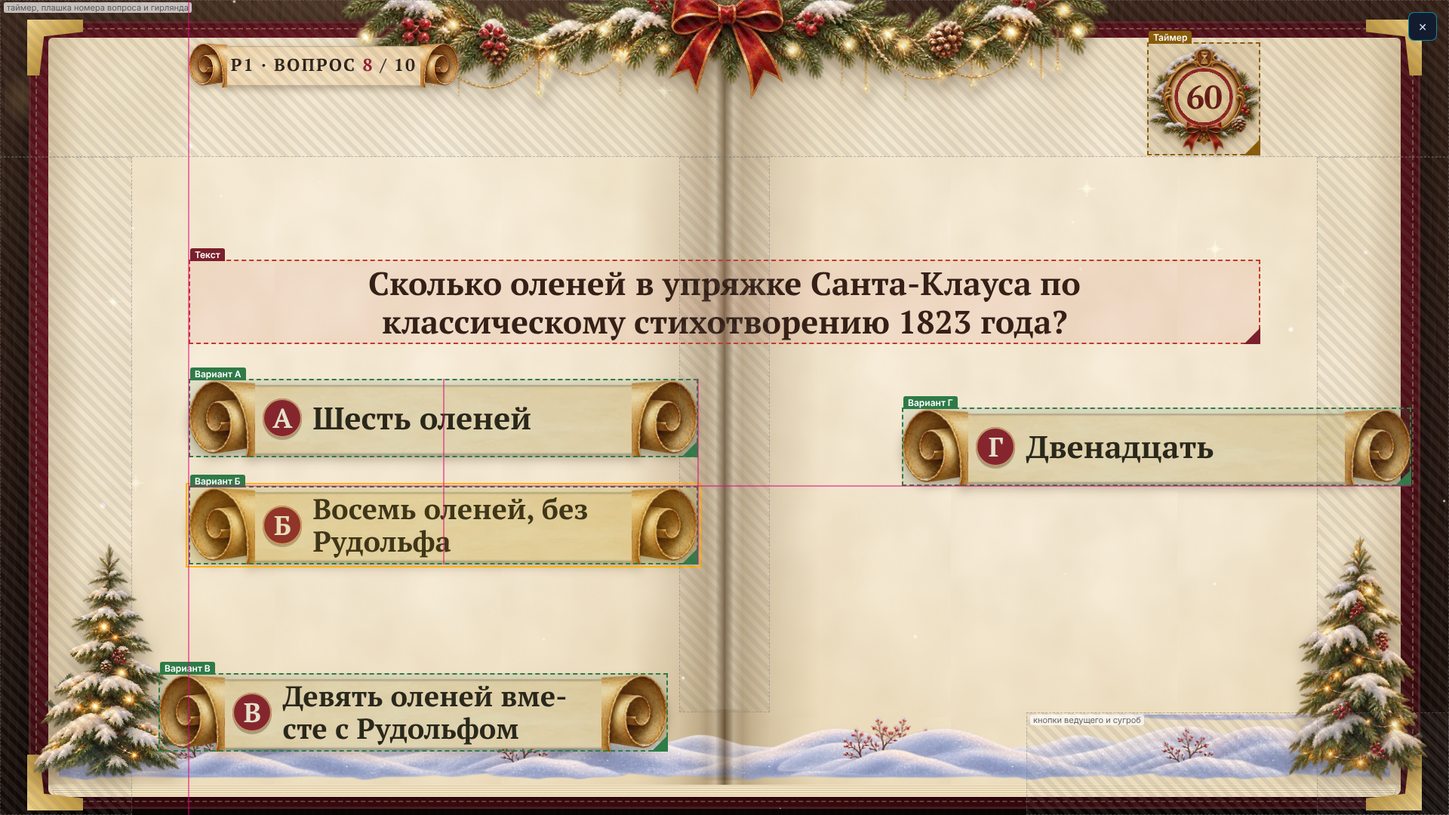
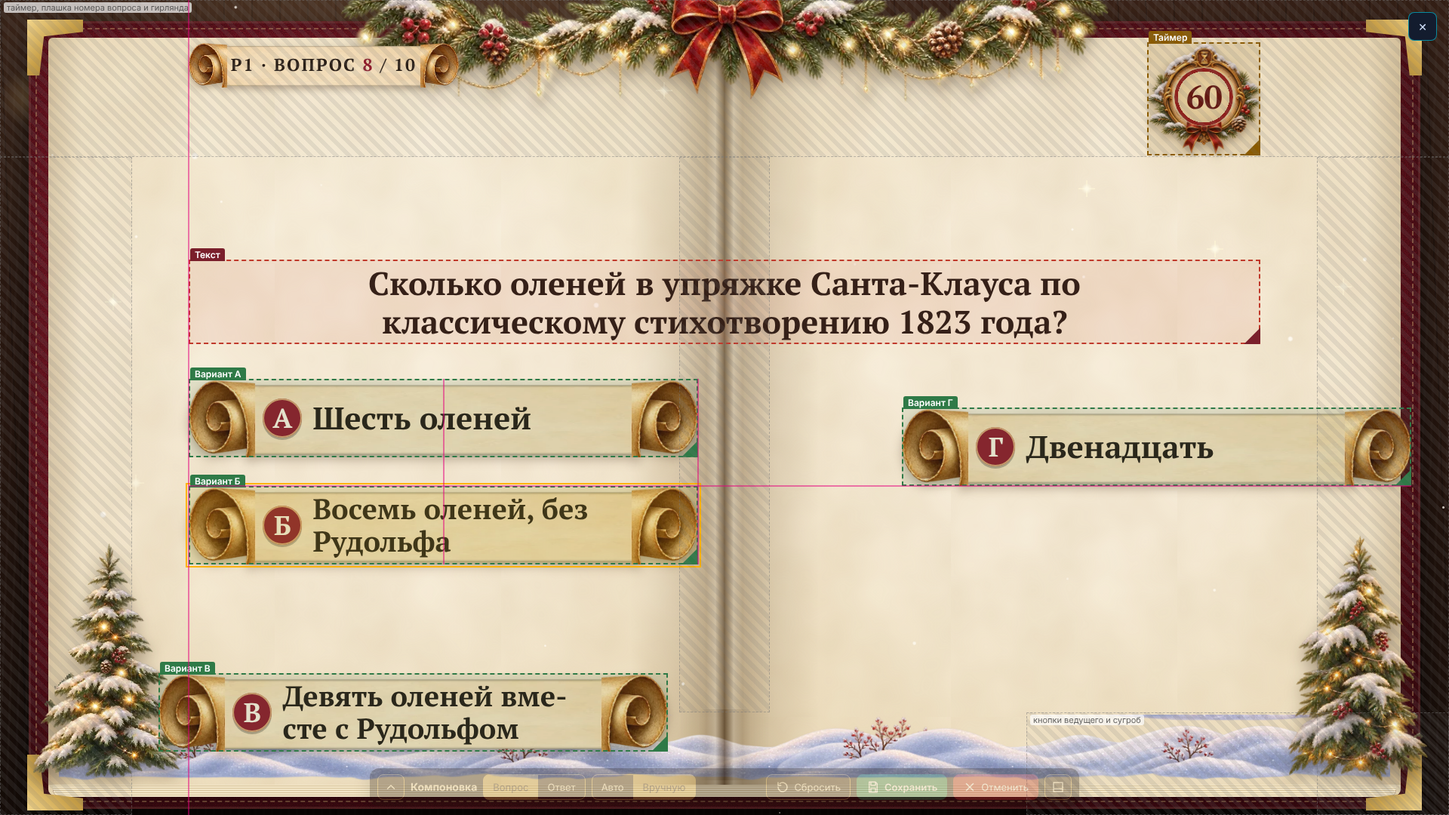
Панель редактора компоновки: сворачиваемая, иконки, зелёное/красное, группы, подсказки; кадры

Changed region(s): [[0.25, 0.9167, 0.75, 1.0]]

diff --git a/src/pages/editor/LayoutEditor.tsx b/src/pages/editor/LayoutEditor.tsx
@@ -3,6 +3,7 @@
 // Черновик живёт в QuestionPreview и подставляется в q.service.layout — экран перерисовывается теми же компонентами, что и на проекторе.
 import { useEffect, useRef, useState } from 'react'
 import { Hint, useHint } from '../../components/Hint'
+import { Ic } from './layoutIcons'
 import { pctStyle } from '../../components/ManualLayout'
 import { sceneAreaCss, busyZones, themeHasFold } from '../../lib/layoutArea'
 import { alignRects, bbox, distribute, nudge, pageLines, sameSize, snapMove, snapResize, SNAP_PX, type AlignMode, type GapMark, type GuideLine, type SnapCfg } from '../../lib/layoutSnap'
@@ -74,6 +75,12 @@ const keyOf = (t: Target): string => (t.kind === 'img' || t.kind === 'tile' ? `$
 type Box = { key: string; t: Target; r: Rect; label: string }
 /** Что рисуем поверх экрана во время жеста: направляющие, отрезки равных интервалов, метки «те же размеры». */
 interface Guides { lines: GuideLine[]; gaps: GapMark[]; eqs: { r: Rect; txt: string }[] }
+/** Состояние панели (свёрнута/развёрнута, сверху/снизу) помним между открытиями; localStorage может быть недоступен — тогда по умолчанию. */
+const PREFS_KEY = 'qp-lay-panel'
+interface PanelPrefs { open: boolean; dock: 'top' | 'bottom' }
+const readPrefs = (): PanelPrefs => {
+  try { const j = JSON.parse(localStorage.getItem(PREFS_KEY) || '{}'); return { open: j.open === true, dock: j.dock === 'top' ? 'top' : 'bottom' } } catch { return { open: false, dock: 'bottom' } }
+}
 type Drag = { kind: 'move' | 'resize' | 'marquee'; keys: string[]; starts: Record<string, Rect>; sx: number; sy: number; base: string[] }
 
 export function LayoutEditor({ theme, screen, onScreen, mode, onMode, draft, onDraft, dirty, status, saving, onSave, onCancel, onReset, tileKeys = [], hasTimer = false }: {
@@ -96,6 +103,10 @@ export function LayoutEditor({ theme, screen, onScreen, mode, onMode, draft, onD
   const [sel, setSel] = useState<string[]>([])
   const [guides, setGuides] = useState<Guides | null>(null)
   const [marq, setMarq] = useState<Rect | null>(null)
+  const [prefs, setPrefsState] = useState<PanelPrefs>(readPrefs)
+  const [gest, setGest] = useState(false)   // идёт жест: панель не мешает рамкам (полупрозрачная, не ловит указатель)
+  const pOpen = prefs.open, dock = prefs.dock
+  const setPrefs = (p: Partial<PanelPrefs>) => setPrefsState(old => { const n = { ...old, ...p }; try { localStorage.setItem(PREFS_KEY, JSON.stringify(n)) } catch { /* без памяти — работаем дальше */ } return n })
 
   const boxes: Box[] = []
   const addBox = (t: Target, r: Rect, label: string) => boxes.push({ key: keyOf(t), t, r, label })
@@ -137,7 +148,7 @@ export function LayoutEditor({ theme, screen, onScreen, mode, onMode, draft, onD
     ;(e.currentTarget as HTMLElement).setPointerCapture(e.pointerId)
     const starts: Record<string, Rect> = {}
     for (const k of keys) { const b = boxes.find(x => x.key === k); if (b) starts[k] = b.r }
-    drag.current = { kind, keys, starts, sx: e.clientX, sy: e.clientY, base: [] }
+    drag.current = { kind, keys, starts, sx: e.clientX, sy: e.clientY, base: [] }; setGest(true)
   }
   /** Рамка-выделение: тянем по пустому месту экрана. */
   const downBg = (e: React.PointerEvent) => {
@@ -146,7 +157,7 @@ export function LayoutEditor({ theme, screen, onScreen, mode, onMode, draft, onD
     ;(e.currentTarget as HTMLElement).setPointerCapture(e.pointerId)
     const base = e.shiftKey || e.ctrlKey || e.metaKey ? selKeys : []
     if (!base.length) setSel([])
-    drag.current = { kind: 'marquee', keys: [], starts: {}, sx: e.clientX, sy: e.clientY, base }
+    drag.current = { kind: 'marquee', keys: [], starts: {}, sx: e.clientX, sy: e.clientY, base }; setGest(true)
   }
   const move = (e: React.PointerEvent) => {
     const d = drag.current; if (!d || !draft) return
@@ -185,7 +196,7 @@ export function LayoutEditor({ theme, screen, onScreen, mode, onMode, draft, onD
     }
     setGuides(gd); onDraft(put(draft, t, n))
   }
-  const up = () => { drag.current = null; setGuides(null); setMarq(null) }
+  const up = () => { drag.current = null; setGuides(null); setMarq(null); setGest(false) }
 
   // стрелки двигают выбранные рамки: 0,2 % экрана (≈ 4 px на 1920), с Shift — 1 %
   useEffect(() => {
@@ -235,59 +246,82 @@ export function LayoutEditor({ theme, screen, onScreen, mode, onMode, draft, onD
         {guides?.eqs.map((q, i) => <div key={`e${i}`} className="lay-eq" style={{ left: `${(q.r.x + q.r.w / 2) * 100}%`, top: `${(q.r.y + q.r.h) * 100}%` }}>{q.txt}</div>)}
         {marq && <div className="lay-marq" style={pctStyle(marq)} />}
       </div>
-      <div className="lay-panel" role="toolbar" aria-label="Компоновка">
-        <div className="lay-row">
-          <b>Компоновка</b>
-          <span className="lay-seg">
-            <button type="button" className={screen === 'question' ? 'on' : ''} onClick={() => onScreen('question')}>Вопрос</button>
-            <button type="button" className={screen === 'answer' ? 'on' : ''} onClick={() => onScreen('answer')}>Ответ</button>
+      <div className={`lay-panel ${pOpen ? 'open' : 'min'} dock-${dock}${gest ? ' gesture' : ''}`} role="toolbar" aria-label="Компоновка">
+        <div className="lay-bar">
+          <button type="button" className="lay-ib lay-toggle" aria-expanded={pOpen} title={pOpen ? 'Свернуть панель: останется одна строка' : 'Развернуть панель: выравнивание, режимы, подсказки'} onClick={() => setPrefs({ open: !pOpen })}><Ic n={pOpen ? 'down' : 'up'} /></button>
+          <b className="lay-title">Компоновка</b>
+          <span className="lay-seg" role="group" aria-label="Какой экран правим">
+            <button type="button" className={screen === 'question' ? 'on' : ''} title="Правим экран вопроса" onClick={() => onScreen('question')}>Вопрос</button>
+            <button type="button" className={screen === 'answer' ? 'on' : ''} title="Правим экран ответа" onClick={() => onScreen('answer')}>Ответ</button>
           </span>
-          <span className="lay-seg">
-            <button type="button" className={mode === 'auto' ? 'on' : ''} onClick={() => onMode('auto')}>Авто</button>
-            <button type="button" className={mode === 'manual' ? 'on' : ''} onClick={() => onMode('manual')}>Вручную</button>
+          <span className="lay-seg" role="group" aria-label="Режим раскладки">
+            <button type="button" className={mode === 'auto' ? 'on' : ''} title="Авто: экран раскладывается сам" onClick={() => onMode('auto')}>Авто</button>
+            <button type="button" className={mode === 'manual' ? 'on' : ''} title="Вручную: рамки двигаешь сам" onClick={() => onMode('manual')}>Вручную</button>
           </span>
+          <span className="lay-grow" />
+          <button type="button" className="lay-btn" title="Сбросить этот экран в авто-раскладку" onClick={onReset}><Ic n="reset" /><span>Сбросить</span></button>
+          <button type="button" className={`lay-btn ok${dirty ? '' : ' idle'}`} disabled={saving} title="Сохранить раскладку вопроса и ответа"
+            onClick={() => (dirty ? onSave() : hint.show('Пока нечего сохранять: измени рамки или переключи режим.'))}><Ic n="save" /><span>{saving ? 'Сохраняю…' : 'Сохранить'}</span></button>
+          <button type="button" className="lay-btn danger" title="Закрыть без сохранения" onClick={onCancel}><Ic n="cancel" /><span>Отменить</span></button>
+          <button type="button" className="lay-ib" title={dock === 'bottom' ? 'Перенести панель наверх' : 'Перенести панель вниз'} onClick={() => setPrefs({ dock: dock === 'bottom' ? 'top' : 'bottom' })}><Ic n="dock" /></button>
         </div>
-        <div className="lay-row">
-          <button type="button" onClick={onReset}>Сбросить</button>
-          <button type="button" className="primary" disabled={saving}
-            onClick={() => (dirty ? onSave() : hint.show('Пока нечего сохранять: измени рамки или переключи режим.'))}>{saving ? 'Сохраняю…' : 'Сохранить'}</button>
-          <button type="button" onClick={onCancel}>Отмена</button>
-        </div>
-        {mode === 'manual' && draft && (tileKeys.length > 0 || hasTimer || screen === 'answer') && (
-          <div className="lay-row">
-            {tileKeys.length > 0 && (draft.tiles
-              ? <button type="button" onClick={() => onDraft({ ...draft, tiles: undefined })}>Варианты — авто</button>
-              : <button type="button" onClick={() => { const m = measureExtra(screen, tileKeys.length, false, 'tiles'); if (m.tiles) onDraft({ ...draft, tiles: m.tiles }); else hint.show('Не удалось снять положение плиток с экрана — закрой и открой компоновку.') }}>Варианты вручную</button>)}
-            {screen === 'question' && hasTimer && (draft.timer
-              ? <button type="button" onClick={() => onDraft({ ...draft, timer: undefined })}>Таймер — на месте</button>
-              : <button type="button" onClick={() => { const m = measureExtra('question', 0, true, 'timer'); if (m.timer) onDraft({ ...draft, timer: m.timer }); else hint.show('Не удалось снять положение таймера с экрана.') }}>Таймер вручную</button>)}
-            {screen === 'answer' && (draft.recall
-              ? <button type="button" onClick={() => onDraft({ ...draft, recall: undefined })}>Вопрос — на месте</button>
-              : <button type="button" onClick={() => { const m = measureExtra('answer', 0, false, 'recall'); if (m.recall) onDraft({ ...draft, recall: m.recall }); else hint.show('На этом экране нет текста вопроса.') }}>Вопрос вручную</button>)}
-            {screen === 'answer' && (draft.teams
-              ? <button type="button" onClick={() => onDraft({ ...draft, teams: undefined })}>Ответы команд — на месте</button>
-              : <button type="button" onClick={() => { const m = measureExtra('answer', 0, false, 'teams'); if (m.teams) onDraft({ ...draft, teams: m.teams }); else hint.show('Колонки команд на экране нет.') }}>Ответы команд вручную</button>)}
-          </div>
-        )}
-        {mode === 'manual' && draft && boxes.length > 1 && (
-          <div className="lay-row lay-align" role="group" aria-label="Выравнивание выбранных рамок">
-            <span className="lay-sub">Выбрано: {selKeys.length}</span>
-            <button type="button" title="По левому краю" onClick={() => al('left')}>⇤ Лево</button>
-            <button type="button" title="По центру (по горизонтали)" onClick={() => al('hcenter')}>↔ Центр</button>
-            <button type="button" title="По правому краю" onClick={() => al('right')}>⇥ Право</button>
-            <button type="button" title="По верху" onClick={() => al('top')}>⤒ Верх</button>
-            <button type="button" title="По середине (по вертикали)" onClick={() => al('vmiddle')}>↕ Середина</button>
-            <button type="button" title="По низу" onClick={() => al('bottom')}>⤓ Низ</button>
-            <button type="button" title="Одинаковая ширина — как у первой выбранной" onClick={() => arrange(2, rs => sameSize(rs, 'w'))}>= Ширина</button>
-            <button type="button" title="Одинаковая высота — как у первой выбранной" onClick={() => arrange(2, rs => sameSize(rs, 'h'))}>= Высота</button>
-            <button type="button" title="Равные промежутки по горизонтали (от трёх рамок)" onClick={() => arrange(3, rs => distribute(rs, 'x'))}>⇔ Распределить</button>
-            <button type="button" title="Равные промежутки по вертикали (от трёх рамок)" onClick={() => arrange(3, rs => distribute(rs, 'y'))}>⇕ Распределить</button>
-          </div>
-        )}
-        {status && <div className="lay-note">{status}</div>}
-        {mode === 'manual' && draft && layoutWarnings(draft, theme).map(w => <div key={w} className="lay-warn">⚠ {w} — можно оставить, если так задумано.</div>)}
         <Hint text={hint.text} />
-        <div className="lay-help">Перетаскивай рамку — двигается, угол ◢ — размер. Рамки можно ставить куда угодно в пределах экрана — и поверх сгиба, и поверх декора (штриховкой показаны таймер, кнопки, сгиб и ёлки: о перекрытии предупредим, но не запретим). Shift при растягивании картинки — сохранить пропорции. Рамки сами прилипают к краям и центрам соседей и к центру экрана (розовые линии), размер — к размеру соседа («= ширина»), а интервалы — к равным; Alt при жесте — без прилипания. Несколько рамок: Shift/Ctrl-клик или обведи мышью на пустом месте — потом кнопки выравнивания; стрелки сдвигают выбранные (Shift — крупнее). Размеры — доли всего экрана: на любом экране одинаково.</div>
+        {pOpen && (
+          <div className="lay-body">
+            {mode === 'manual' && draft && (
+              <div className="lay-tools">
+                <span className="lay-group" role="group" aria-label="Выравнивание выбранных рамок">
+                  <span className="lay-gl">Выравнивание</span>
+                  <button type="button" className={`lay-ib${selKeys.length < 2 ? ' idle' : ''}`} title="По левому краю" onClick={() => al('left')}><Ic n="alignLeft" /></button>
+                  <button type="button" className={`lay-ib${selKeys.length < 2 ? ' idle' : ''}`} title="По центру (по горизонтали)" onClick={() => al('hcenter')}><Ic n="alignCenter" /></button>
+                  <button type="button" className={`lay-ib${selKeys.length < 2 ? ' idle' : ''}`} title="По правому краю" onClick={() => al('right')}><Ic n="alignRight" /></button>
+                  <button type="button" className={`lay-ib${selKeys.length < 2 ? ' idle' : ''}`} title="По верху" onClick={() => al('top')}><Ic n="alignTop" /></button>
+                  <button type="button" className={`lay-ib${selKeys.length < 2 ? ' idle' : ''}`} title="По середине (по вертикали)" onClick={() => al('vmiddle')}><Ic n="alignMiddle" /></button>
+                  <button type="button" className={`lay-ib${selKeys.length < 2 ? ' idle' : ''}`} title="По низу" onClick={() => al('bottom')}><Ic n="alignBottom" /></button>
+                </span>
+                <span className="lay-group" role="group" aria-label="Размеры выбранных рамок">
+                  <span className="lay-gl">Размер</span>
+                  <button type="button" className={`lay-ib${selKeys.length < 2 ? ' idle' : ''}`} title="Одинаковая ширина — как у первой выбранной рамки" onClick={() => arrange(2, rs => sameSize(rs, 'w'))}><Ic n="sameW" /></button>
+                  <button type="button" className={`lay-ib${selKeys.length < 2 ? ' idle' : ''}`} title="Одинаковая высота — как у первой выбранной рамки" onClick={() => arrange(2, rs => sameSize(rs, 'h'))}><Ic n="sameH" /></button>
+                </span>
+                <span className="lay-group" role="group" aria-label="Распределение выбранных рамок">
+                  <span className="lay-gl">Промежутки</span>
+                  <button type="button" className={`lay-ib${selKeys.length < 3 ? ' idle' : ''}`} title="Равные промежутки по горизонтали (от трёх рамок)" onClick={() => arrange(3, rs => distribute(rs, 'x'))}><Ic n="distH" /></button>
+                  <button type="button" className={`lay-ib${selKeys.length < 3 ? ' idle' : ''}`} title="Равные промежутки по вертикали (от трёх рамок)" onClick={() => arrange(3, rs => distribute(rs, 'y'))}><Ic n="distV" /></button>
+                </span>
+                <span className="lay-chip" title="Сколько рамок выбрано: Shift/Ctrl-клик или обведи мышью на пустом месте">Выбрано: <b>{selKeys.length}</b></span>
+              </div>
+            )}
+            {mode === 'manual' && draft && (tileKeys.length > 0 || hasTimer || screen === 'answer') && (
+              <div className="lay-tools">
+                <span className="lay-group" role="group" aria-label="Что двигаем вручную">
+                  <span className="lay-gl">Вручную / авто</span>
+                  {tileKeys.length > 0 && <button type="button" className={`lay-btn sm${draft.tiles ? ' on' : ''}`} aria-pressed={!!draft.tiles} title={draft.tiles ? 'Варианты двигаются вручную. Нажми — вернуть на штатные места (авто)' : 'Варианты на штатных местах. Нажми — двигать каждую плитку вручную'}
+                    onClick={() => { if (draft.tiles) { onDraft({ ...draft, tiles: undefined }); return } const m = measureExtra(screen, tileKeys.length, false, 'tiles'); if (m.tiles) onDraft({ ...draft, tiles: m.tiles }); else hint.show('Не удалось снять положение плиток с экрана — закрой и открой компоновку.') }}><Ic n="tiles" /><span>Варианты</span></button>}
+                  {screen === 'question' && hasTimer && <button type="button" className={`lay-btn sm${draft.timer ? ' on' : ''}`} aria-pressed={!!draft.timer} title={draft.timer ? 'Таймер двигается вручную. Нажми — вернуть на место' : 'Таймер на своём месте. Нажми — двигать и менять размер вручную'}
+                    onClick={() => { if (draft.timer) { onDraft({ ...draft, timer: undefined }); return } const m = measureExtra('question', 0, true, 'timer'); if (m.timer) onDraft({ ...draft, timer: m.timer }); else hint.show('Не удалось снять положение таймера с экрана.') }}><Ic n="timer" /><span>Таймер</span></button>}
+                  {screen === 'answer' && <button type="button" className={`lay-btn sm${draft.recall ? ' on' : ''}`} aria-pressed={!!draft.recall} title={draft.recall ? 'Текст вопроса двигается вручную. Нажми — вернуть на место' : 'Текст вопроса на своём месте. Нажми — двигать вручную'}
+                    onClick={() => { if (draft.recall) { onDraft({ ...draft, recall: undefined }); return } const m = measureExtra('answer', 0, false, 'recall'); if (m.recall) onDraft({ ...draft, recall: m.recall }); else hint.show('На этом экране нет текста вопроса.') }}><Ic n="text" /><span>Вопрос</span></button>}
+                  {screen === 'answer' && <button type="button" className={`lay-btn sm${draft.teams ? ' on' : ''}`} aria-pressed={!!draft.teams} title={draft.teams ? 'Колонка ответов команд двигается вручную. Нажми — вернуть на место' : 'Колонка ответов команд на своём месте. Нажми — двигать вручную'}
+                    onClick={() => { if (draft.teams) { onDraft({ ...draft, teams: undefined }); return } const m = measureExtra('answer', 0, false, 'teams'); if (m.teams) onDraft({ ...draft, teams: m.teams }); else hint.show('Колонки команд на экране нет.') }}><Ic n="teams" /><span>Ответы команд</span></button>}
+                </span>
+              </div>
+            )}
+            {status && <div className="lay-note">{status}</div>}
+            {mode === 'manual' && draft && (() => { const ws = layoutWarnings(draft, theme); return ws.length > 0 && (
+              <details className="lay-warns"><summary><Ic n="warn" /> Перекрытия: {ws.length} — можно оставить, если так задумано</summary>
+                {ws.map(w => <div key={w} className="lay-warn">{w}</div>)}</details>) })()}
+            <details className="lay-helpbox"><summary><Ic n="help" /> Подсказки</summary>
+              <ul className="lay-help">
+                <li>Перетаскивай рамку — двигается, угол ◢ — размер. Ставить можно куда угодно, в том числе поверх сгиба и декора (штриховка): предупредим, но не запретим.</li>
+                <li>Рамки сами прилипают к краям и центрам соседей и к центру экрана (розовые линии), размер — к размеру соседа («= ширина»), интервалы — к равным.</li>
+                <li><b>Alt</b> во время жеста — без прилипания. <b>Shift</b> при растягивании картинки — сохранить пропорции.</li>
+                <li>Несколько рамок: <b>Shift/Ctrl-клик</b> или обведи мышью на пустом месте, потом кнопки выравнивания. Стрелки двигают выбранные, <b>Shift+стрелки</b> — крупнее.</li>
+                <li>Размеры — доли всего экрана: на любом экране одинаково.</li>
+              </ul>
+            </details>
+          </div>
+        )}
       </div>
     </div>
   )

diff --git a/src/styles/parts/07-editor.css b/src/styles/parts/07-editor.css
@@ -279,19 +279,12 @@
 .lay-box.img .lay-handle { background: #1f6fb2; }
 .lay-ed-area { position: absolute; pointer-events: none; }
 .lay-fold { position: absolute; top: 0; bottom: 0; background: repeating-linear-gradient(135deg, rgba(0,0,0,.08) 0 6px, transparent 6px 12px); pointer-events: none; }
-.lay-panel { position: absolute; left: 50%; bottom: 14px; transform: translateX(-50%); pointer-events: auto; display: flex; flex-direction: column; gap: 8px; max-width: min(760px, 94vw); padding: 10px 14px; border-radius: 10px; background: rgba(30, 20, 14, .94); color: #f3e6c8; font: 14px system-ui; box-shadow: 0 6px 24px rgba(0,0,0,.5); }
-.lay-row { display: flex; gap: 10px; align-items: center; flex-wrap: wrap; }
-.lay-panel button { cursor: pointer; border: 1px solid #c9a24a; background: #3a2a1d; color: #f3e6c8; border-radius: 6px; padding: 6px 12px; font: inherit; }
-.lay-panel button.on, .lay-panel button.primary { background: #c9a24a; color: #2a1a12; }
-.lay-seg { display: inline-flex; gap: 0; } .lay-seg button { border-radius: 0; } .lay-seg button:first-child { border-radius: 6px 0 0 6px; } .lay-seg button:last-child { border-radius: 0 6px 6px 0; }
-.lay-note { font-size: 13px; color: #ffd59a; } .lay-help { font-size: 12px; opacity: .75; }
 .pv-stages.pv-lay { left: auto; right: 64px; }
 
 /* свободная раскладка v:2: «занятые» места экрана — подсказка, не запрет */
 .lay-busy { position: absolute; pointer-events: none; box-sizing: border-box; background: repeating-linear-gradient(45deg, rgba(120, 120, 120, .14) 0 6px, transparent 6px 12px); border: 1px dashed rgba(120, 120, 120, .45); font-size: 11px; color: rgba(60, 60, 60, .8); overflow: hidden; }
 .lay-busy span { position: absolute; left: 4px; top: 2px; background: rgba(255, 255, 255, .7); padding: 0 4px; border-radius: 3px; }
 .lay-busy.decor span, .lay-busy.fold span { display: none; }
-.lay-warn { margin-top: 6px; padding: 6px 8px; border-radius: 6px; background: #fff4d6; color: #7a5200; font-size: 12px; }
 .lay-box.tile { border-color: #2f7a47; background: rgba(47, 122, 71, .10); } .lay-box.tile .lay-tag, .lay-box.tile .lay-handle { background: #2f7a47; }
 .lay-box.timer { border-color: #8a5a00; background: rgba(138, 90, 0, .12); } .lay-box.timer .lay-tag, .lay-box.timer .lay-handle { background: #8a5a00; }
 
@@ -307,4 +300,38 @@
 .lay-gap.y { width: 2px; transform: translateX(-1px); }
 .lay-eq { position: absolute; pointer-events: none; z-index: 4; transform: translate(-50%, 4px); background: var(--lay-guide); color: #fff; font: 700 11px system-ui; padding: 1px 6px; border-radius: 3px; white-space: nowrap; }
 .lay-marq { position: absolute; pointer-events: none; z-index: 4; box-sizing: border-box; border: 1px solid var(--lay-marq); background: rgba(59, 130, 246, .12); }
-.lay-align { gap: 6px; } .lay-align button { padding: 4px 8px; font-size: 12px; } .lay-sub { font-size: 12px; opacity: .8; }
+
+/* ═══ Панель редактора компоновки (10.72, UX): свёрнутая строка / развёрнутая, группы иконок, зелёное «Сохранить», красное «Отменить» ═══ */
+.lay-ed { --lay-bg: rgba(30, 20, 14, .95); --lay-fg: #f3e6c8; --lay-line: #c9a24a; --lay-btn: #3a2a1d; --lay-btn-h: #4d3826; --lay-accent: #c9a24a; --lay-accent-fg: #2a1a12;
+  --lay-ok: #2e8b57; --lay-ok-h: #36a566; --lay-danger: #c0392b; --lay-danger-h: #d9473a; --lay-btn-fg: #fff; --lay-focus: #7cc4ff; }
+.lay-panel { position: absolute; left: 50%; transform: translateX(-50%); pointer-events: auto; display: flex; flex-direction: column; gap: 6px; width: min(940px, 96vw); max-height: 46vh; overflow-y: auto;
+  box-sizing: border-box; padding: 8px 10px; border-radius: 12px; background: var(--lay-bg); color: var(--lay-fg); font: 13px/1.3 system-ui; box-shadow: 0 6px 24px rgba(0, 0, 0, .45); transition: opacity .18s ease; }
+.lay-panel.dock-bottom { bottom: 12px; } .lay-panel.dock-top { top: 12px; }
+.lay-panel.gesture { opacity: .3; pointer-events: none; }   /* на время жеста не закрывает рамки и не ловит указатель */
+.lay-bar { display: flex; flex-wrap: wrap; align-items: center; gap: 6px 8px; }
+.lay-title { font-size: 14px; white-space: nowrap; } .lay-grow { flex: 1 1 8px; }
+.lay-panel button { cursor: pointer; display: inline-flex; align-items: center; justify-content: center; gap: 6px; min-height: 34px; box-sizing: border-box; border: 1px solid var(--lay-line); background: var(--lay-btn); color: var(--lay-fg); border-radius: 8px; padding: 4px 12px; font: inherit; transition: background-color .15s ease, border-color .15s ease, transform .1s ease, box-shadow .15s ease; }
+.lay-panel button:hover:not(:disabled) { background: var(--lay-btn-h); } .lay-panel button:active:not(:disabled) { transform: translateY(1px); }
+.lay-panel button:focus-visible, .lay-panel summary:focus-visible { outline: 2px solid var(--lay-focus); outline-offset: 2px; }
+.lay-panel button:disabled { opacity: .55; cursor: progress; }
+.lay-panel button.on { background: var(--lay-accent); color: var(--lay-accent-fg); border-color: var(--lay-accent); }
+.lay-panel button.on:hover:not(:disabled) { background: var(--lay-accent); filter: brightness(1.08); }
+.lay-panel button.lay-btn.ok { background: var(--lay-ok); border-color: var(--lay-ok); color: var(--lay-btn-fg); font-weight: 600; } .lay-panel button.lay-btn.ok:hover:not(:disabled) { background: var(--lay-ok-h); }
+.lay-panel button.lay-btn.danger { background: var(--lay-danger); border-color: var(--lay-danger); color: var(--lay-btn-fg); } .lay-panel button.lay-btn.danger:hover:not(:disabled) { background: var(--lay-danger-h); }
+.lay-panel button.idle { opacity: .6; } .lay-panel button.idle:hover:not(:disabled) { opacity: .85; }   /* «пока нечего делать» — живая кнопка, по клику подсказка */
+.lay-panel button.lay-ib { padding: 4px; min-width: 36px; } .lay-panel button.lay-btn.sm { min-height: 32px; padding: 3px 10px; }
+.lay-ic { flex: none; }
+.lay-seg { display: inline-flex; } .lay-panel .lay-seg button { border-radius: 0; min-height: 34px; } .lay-panel .lay-seg button:first-child { border-radius: 8px 0 0 8px; } .lay-panel .lay-seg button:last-child { border-radius: 0 8px 8px 0; margin-left: -1px; }
+.lay-body { display: flex; flex-direction: column; gap: 8px; padding-top: 6px; border-top: 1px solid rgba(201, 162, 74, .35); }
+.lay-tools { display: flex; flex-wrap: wrap; gap: 8px 16px; align-items: center; }
+.lay-group { display: inline-flex; align-items: center; gap: 4px; padding: 3px 6px; border-radius: 10px; background: rgba(255, 255, 255, .06); }
+.lay-gl { font-size: 11px; opacity: .7; margin-right: 4px; white-space: nowrap; }
+.lay-chip { font-size: 12px; padding: 3px 10px; border-radius: 99px; background: rgba(255, 179, 0, .18); color: var(--lay-fg); } .lay-chip b { color: var(--lay-sel); }
+.lay-note { font-size: 13px; color: #ffd59a; }
+.lay-warns, .lay-helpbox { font-size: 12px; } .lay-warns summary, .lay-helpbox summary { cursor: pointer; display: inline-flex; align-items: center; gap: 6px; opacity: .9; } .lay-warns summary { color: #ffd59a; }
+.lay-warn { margin-top: 4px; padding: 4px 8px; border-radius: 6px; background: #fff4d6; color: #7a5200; font-size: 12px; }
+.lay-help { margin: 6px 0 0; padding-left: 18px; opacity: .85; } .lay-help li + li { margin-top: 3px; }
+@media (prefers-reduced-motion: reduce) {
+  .lay-panel, .lay-panel button { transition: none; } .lay-panel button:active:not(:disabled) { transform: none; }
+}
+@media (max-width: 900px) { .lay-panel button.lay-btn span { display: none; } .lay-panel button.lay-btn.sm span { display: inline; } }

diff --git a/src/pages/editor/layoutIcons.tsx b/src/pages/editor/layoutIcons.tsx
@@ -1,0 +1,30 @@
+// Иконки панели редактора компоновки: inline SVG без внешних библиотек (24×24, штрих currentColor).
+const P = {
+  save: 'M5 3h11l3 3v15H5z M8 3v6h8V3 M8 21v-7h8v7',
+  cancel: 'M6 6l12 12 M18 6L6 18',
+  reset: 'M4 12a8 8 0 1 0 3-6.2 M4 4v5h5',
+  up: 'M6 15l6-6 6 6',
+  down: 'M6 9l6 6 6-6',
+  dock: 'M4 4h16v16H4z M4 15h16',
+  alignLeft: 'M4 3v18 M8 7h12 M8 14h7',
+  alignCenter: 'M12 3v18 M5 7h14 M8 14h8',
+  alignRight: 'M20 3v18 M4 7h12 M9 14h7',
+  alignTop: 'M3 4h18 M7 8v12 M14 8v7',
+  alignMiddle: 'M3 12h18 M7 5v14 M14 8v8',
+  alignBottom: 'M3 20h18 M7 4v12 M14 9v7',
+  sameW: 'M4 6v12 M20 6v12 M4 12h16 M4 12l3-3 M4 12l3 3 M20 12l-3-3 M20 12l-3 3',
+  sameH: 'M6 4h12 M6 20h12 M12 4v16 M12 4l-3 3 M12 4l3 3 M12 20l-3-3 M12 20l3-3',
+  distH: 'M4 3v18 M20 3v18 M10 8h4v8h-4z',
+  distV: 'M3 4h18 M3 20h18 M8 10h8v4H8z',
+  tiles: 'M4 4h7v7H4z M13 4h7v7h-7z M4 13h7v7H4z M13 13h7v7h-7z',
+  timer: 'M12 8v5l3 2 M12 4a8 8 0 1 0 .01 0 M10 2h4',
+  text: 'M4 6h16 M4 12h16 M4 18h10',
+  teams: 'M9 7a3 3 0 1 0 .01 0 M3 20c0-4 3-6 6-6s6 2 6 6 M17 8a2.5 2.5 0 1 0 .01 0 M17 14c2.5 0 4 1.7 4 5',
+  help: 'M9 9a3 3 0 1 1 4 2.8c-.9.5-1 1-1 2 M12 18v.01',
+  warn: 'M12 4l9 16H3z M12 10v4 M12 17v.01',
+} as const
+export type IconName = keyof typeof P
+
+export function Ic({ n }: { n: IconName }) {
+  return <svg className="lay-ic" viewBox="0 0 24 24" width="18" height="18" fill="none" stroke="currentColor" strokeWidth="2" strokeLinecap="round" strokeLinejoin="round" aria-hidden="true" focusable="false"><path d={P[n]} /></svg>
+}

diff --git a/HANDOFF.md b/HANDOFF.md
@@ -1412,3 +1412,5 @@ Share на самой странице.
 **Ловушки.** (1) Панель `.lay-panel` стоит по центру снизу и закрывает рамки в нижней половине экрана — в e2e на время жестов её прячут (`visibility: hidden`); для ведущего это старая проблема, теперь панель стала выше из-за ряда выравнивания (в бэклог: компактная/сворачиваемая панель). (2) После обычного клика по рамке она ВЫБРАНА — Shift-клик по ней же снимает выбор; в e2e первым идёт обычный клик. (3) Выбор сбрасывается при смене экрана/режима (ключи `tile0` одинаковы на вопросе и ответе). (4) Обработчик клавиш подписан один раз и читает свежее состояние из `live` (ref) — не превращать в замыкание на `draft`.
 
 **Бэклог.** Сворачиваемая панель; привязка к границам НЕ выбранных, но «вне ряда» рамок по равным интервалам в группе; «одинаковый размер» по самой большой рамке как режим. Сквозные кадры — `docs-dev/book-redesign/shots/layout-snap-20261118/`, скрипт `e2e/book/layout-snap-e2e.cjs`; экран ответа и «3 попытки» отдельным e2e не прогонялись (тот же компонент).
+
+**Панель .lay-panel, переработка UX (там же, 10.72).** (1) Две высоты: СВЁРНУТАЯ (по умолчанию, одна строка ≈ 50 px: стрелка-«ручка», «Вопрос/Ответ», «Авто/Вручную», «Сбросить», зелёное «Сохранить», красное «Отменить», перенос вверх/вниз) и РАЗВЁРНУТАЯ (+ группы иконок «Выравнивание», «Размер», «Промежутки», счётчик «Выбрано: N», кнопки «Вручную/авто» для вариантов/таймера/вопроса/ответов команд, сворачиваемые «Перекрытия: N» и «Подсказки» — Alt/Shift/стрелки; ≈ 208 px на 1920 и на 1280×720, `max-height: 46vh`). Состояние (`open`, `dock: top|bottom`) — в `localStorage['qp-lay-panel']` через try/catch (нет памяти — свёрнута, снизу). На время жеста панель полупрозрачная и не ловит указатель (`.gesture`). (2) Иконки — inline SVG в `pages/editor/layoutIcons.tsx`, подсказки — `title` (accessible name кнопок «Вручную», «Сохранить», «Ответ» держим текстом: на них опираются все `layout-*-e2e`). Кнопки без нужной выборки — «живые» (`.idle`, приглушены, по клику `useHint` говорит, чего не хватает), не `disabled`; `disabled` только на время записи. Цвета — переменные `--lay-*` на `.lay-ed` (`--lay-ok`, `--lay-danger`, `--lay-focus`…), hover/active/`:focus-visible`, `prefers-reduced-motion` гасит transition тем же весом селектора. (3) Ловушки: счётчик в `layout-snap-e2e` берёт кнопки выравнивания по `title`, а не по тексту (иконки без текста); при 1280×720 e2e-сценарий жестов с фиксированными px-сдвигами упирается в свёрнутую панель — гоняется на 1920×1080, на 1280 снимаются только кадры панели (`shots/layout-snap-20261118/1280/`). Бэклог: «сворачиваемая панель» закрыта.
